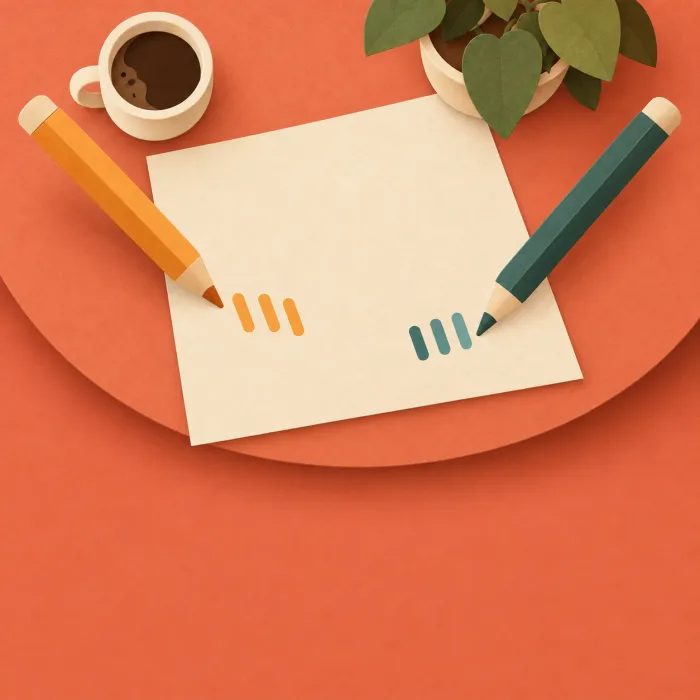
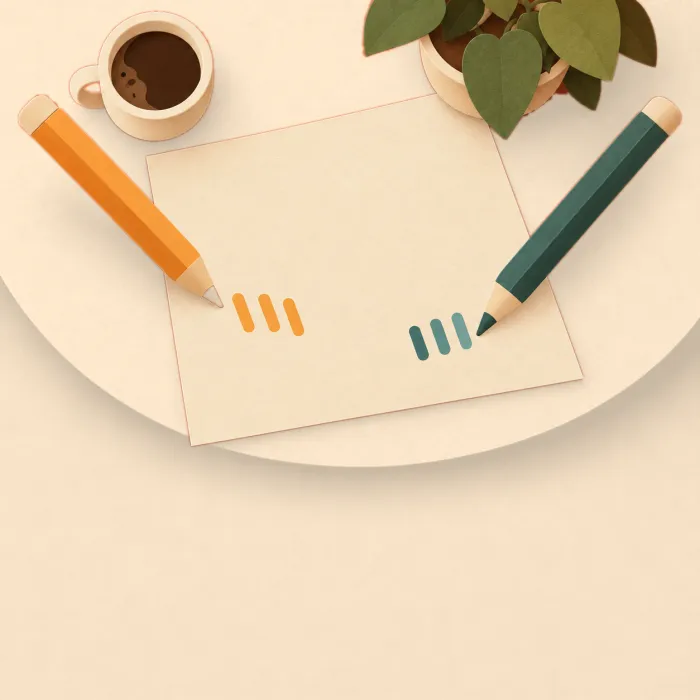
Home study D: a cream desk so the headline leads, and a larger note and chips so the ticks are seen

diff --git a/web/app/lab/home-d/d.module.css b/web/app/lab/home-d/d.module.css
@@ -6,38 +6,40 @@
 @media (max-width: 700px) { .main { gap: 88px; } }
 
 /* ── Hero: the words on the left, the desk on the right; on phones the desk under the words ── */
-.hero { display: grid; grid-template-columns: minmax(0, 1fr) minmax(0, 1.05fr); gap: 56px; align-items: center; padding-top: 56px; }
+.hero { display: grid; grid-template-columns: minmax(0, 1fr) minmax(0, 1.2fr); gap: 48px; align-items: center; padding-top: 56px; }
 @media (max-width: 960px) { .hero { grid-template-columns: 1fr; gap: 36px; padding-top: 28px; } }
 .heroText { display: grid; gap: 22px; justify-items: start; }
 .h1 { max-width: 13ch; }
 
-/* The desk: the picture's own top, two pencils pointing down at the note laid on its plain lower half. */
-.desk { position: relative; aspect-ratio: 1 / 1.02; border-radius: 28px; overflow: hidden; background: #e2603f; isolation: isolate; }
+/* The desk: the picture's own top, two pencils pointing down at the note laid on its plain lower half.
+   Its table and floor are warm cream (scripts/recolor-desk.py), so the headline leads and the note is the subject. */
+.desk { position: relative; aspect-ratio: 1 / 0.94; border-radius: 28px; overflow: hidden; background: #f7e2c7; isolation: isolate; }
 .deskArt { position: absolute; inset: 0; width: 100%; height: 100%; object-fit: cover; object-position: center top; }
 
 /* The note, as the app draws it, on its own white paper, a little turned like a sheet put down. */
 .note {
-  position: absolute; left: 13%; right: 13%; top: 44%; padding: 18px 22px 20px; border-radius: 16px; box-sizing: border-box;
+  position: absolute; left: 8%; right: 8%; top: 37%; padding: 20px 26px 22px; border-radius: 16px; box-sizing: border-box;
   /* The app's light colours (kit.module.css), always: the desk is a picture, not a theme. */
   --n-page: #fdfbf8; --n-chrome: #f4f1ed; --n-text: #1d1d1f; --n-sec: #86868b; --n-ter: #c7c7cc; --n-rule: #e6e2dc;
   --n-tint: #fdeedd; --n-bar: #f2c48f; --n-tick: #e8820e; --n-accent: #c46a00;
   background: var(--n-page); color: var(--n-text); transform: rotate(-2.5deg); transform-origin: 50% 0;
   box-shadow: 0 1px 2px rgba(80, 25, 5, 0.18), 0 24px 40px -18px rgba(80, 25, 5, 0.55);
 }
-.noteTitle { margin: 0 0 8px; font-size: 22px; font-weight: 800; letter-spacing: -0.02em; }
-.note [data-k] { margin-left: -22px !important; padding-left: 22px !important; margin-right: -22px; padding-right: 22px; }
+.noteTitle { margin: 0 0 8px; font-size: 26px; font-weight: 800; letter-spacing: -0.02em; }
+.note [data-k] { margin-left: -26px !important; padding-left: 26px !important; margin-right: -26px; padding-right: 26px; font-size: 17.5px; }
 /* Who ticked: the app's mark and a few words, pinned to the note's top corner. */
 .noteChip {
-  position: absolute; right: 14px; top: -16px; display: inline-flex; align-items: center; gap: 7px; height: 32px; padding: 0 12px 0 5px; border-radius: 16px;
-  background: #fdf0dc; color: #8a4a1c; font-size: 13.5px; font-weight: 650; white-space: nowrap;
+  position: absolute; right: 16px; top: -19px; display: inline-flex; align-items: center; gap: 8px; height: 38px; padding: 0 15px 0 6px; border-radius: 19px;
+  background: #fdf0dc; color: #8a4a1c; font-size: 15.5px; font-weight: 650; white-space: nowrap;
   box-shadow: 0 0 0 1px #f0d2a8, 0 8px 18px -8px rgba(80, 25, 5, 0.45); opacity: 0;
 }
 .noteChip[data-on] { opacity: 1; }
 @media (max-width: 520px) {
-  .desk { aspect-ratio: 1 / 1.2; }
+  .desk { aspect-ratio: 1 / 1.22; }
   .note { left: 7%; right: 7%; top: 35%; padding: 14px 16px 16px; }
   .note [data-k] { margin-left: -16px !important; padding-left: 16px !important; margin-right: -16px; padding-right: 16px; font-size: 14.5px; }
-  .noteTitle { font-size: 19px; margin-bottom: 4px; }
+  .noteTitle { font-size: 20px; margin-bottom: 4px; }
+  .noteChip { height: 32px; font-size: 13.5px; top: -16px; right: 12px; padding: 0 12px 0 5px; }
 }
 @media (prefers-reduced-motion: no-preference) {
   /* A tick lands with a small overshoot; the tint comes up under it; the chip rises in, once per change. */

diff --git a/scripts/recolor-desk.py b/scripts/recolor-desk.py
@@ -1,0 +1,24 @@
+#!/usr/bin/env python3
+# The home page study's desk (web/public/home-d/desk.webp): the paper-cut desk from the email art
+# (amber-emails-art/out/share-a.png) with its orange table and floor turned warm cream, so the headline leads.
+# uv run --with pillow --with numpy scripts/recolor-desk.py <share-a.png> <out.png>, then cwebp -q 82.
+import sys, numpy as np
+from PIL import Image, ImageFilter
+src, out = sys.argv[1], sys.argv[2]
+im = np.asarray(Image.open(src).convert("RGB")).astype(np.float32)
+r, g, b = im[..., 0], im[..., 1], im[..., 2]
+# The ground: strongly orange-red (r high, g mid, b low) and saturated.
+mx = im.max(-1); mn = im.min(-1); sat = (mx - mn) / np.maximum(mx, 1)
+gr = g / np.maximum(r, 1); br = b / np.maximum(r, 1)
+hue_ok = (gr > 0.28) & (gr < 0.5) & (br < 0.4) & (r > 125)
+mask = (hue_ok & (sat > 0.4)).astype(np.float32)
+# Close the mask: the ground's paper grain has lighter flecks the colour test misses.
+closed = Image.fromarray((mask * 255).astype(np.uint8)).filter(ImageFilter.MaxFilter(7)).filter(ImageFilter.MinFilter(7))
+m = np.asarray(closed.filter(ImageFilter.GaussianBlur(1.5))).astype(np.float32) / 255
+lum = 0.299 * r + 0.587 * g + 0.114 * b
+ref = np.median(lum[mask > 0.5])
+shade = np.clip(lum / ref, 0.6, 1.2)[..., None]   # the table edge's shadow and the paper grain
+table = np.array([247, 226, 199], np.float32)    # warm cream, a step deeper than the page (#fff4e6)
+new = np.clip(table * (0.55 + 0.45 * shade), 0, 255)
+res = im * (1 - m[..., None]) + new * m[..., None]
+Image.fromarray(res.astype(np.uint8)).save(out)
